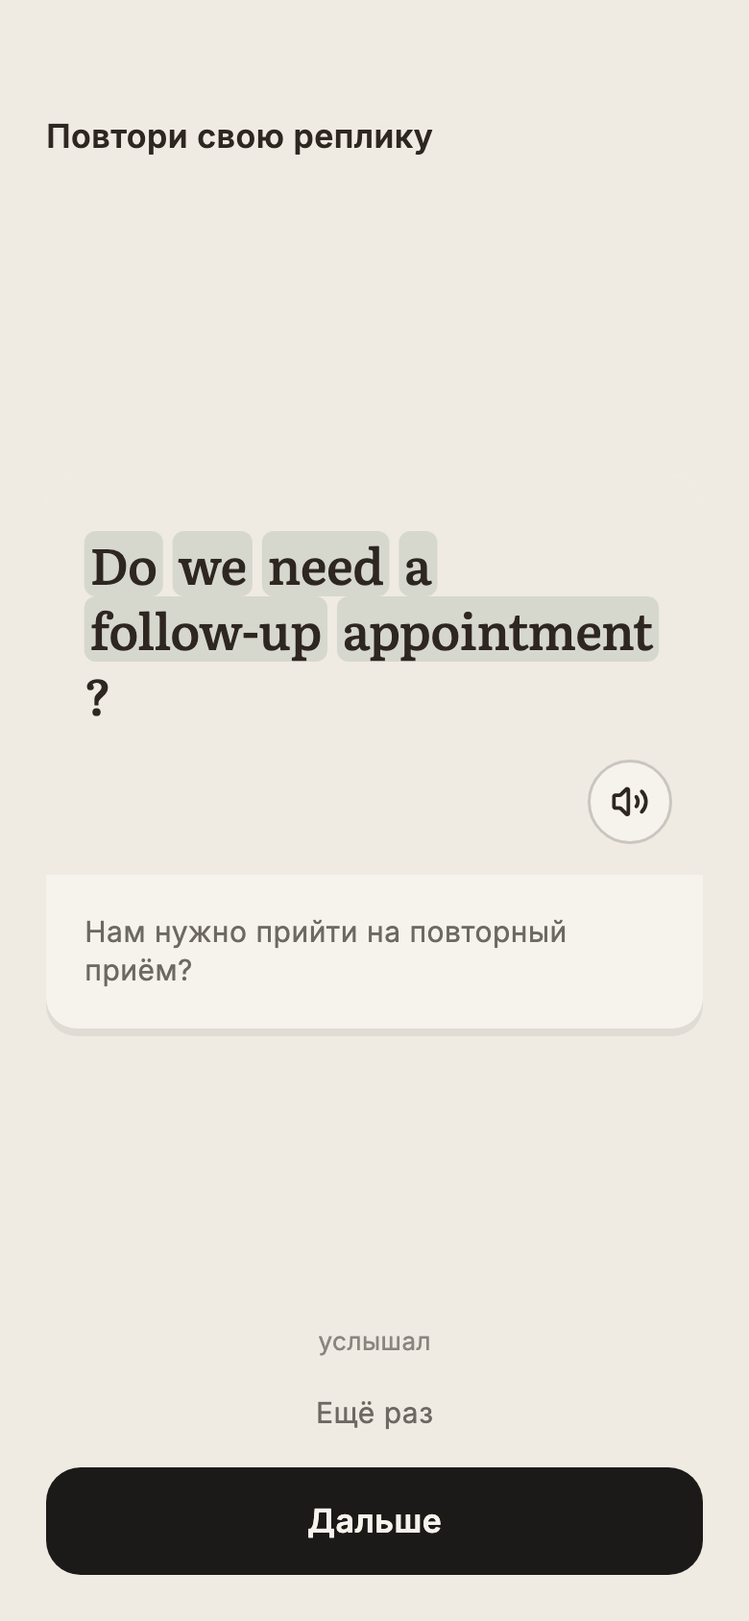
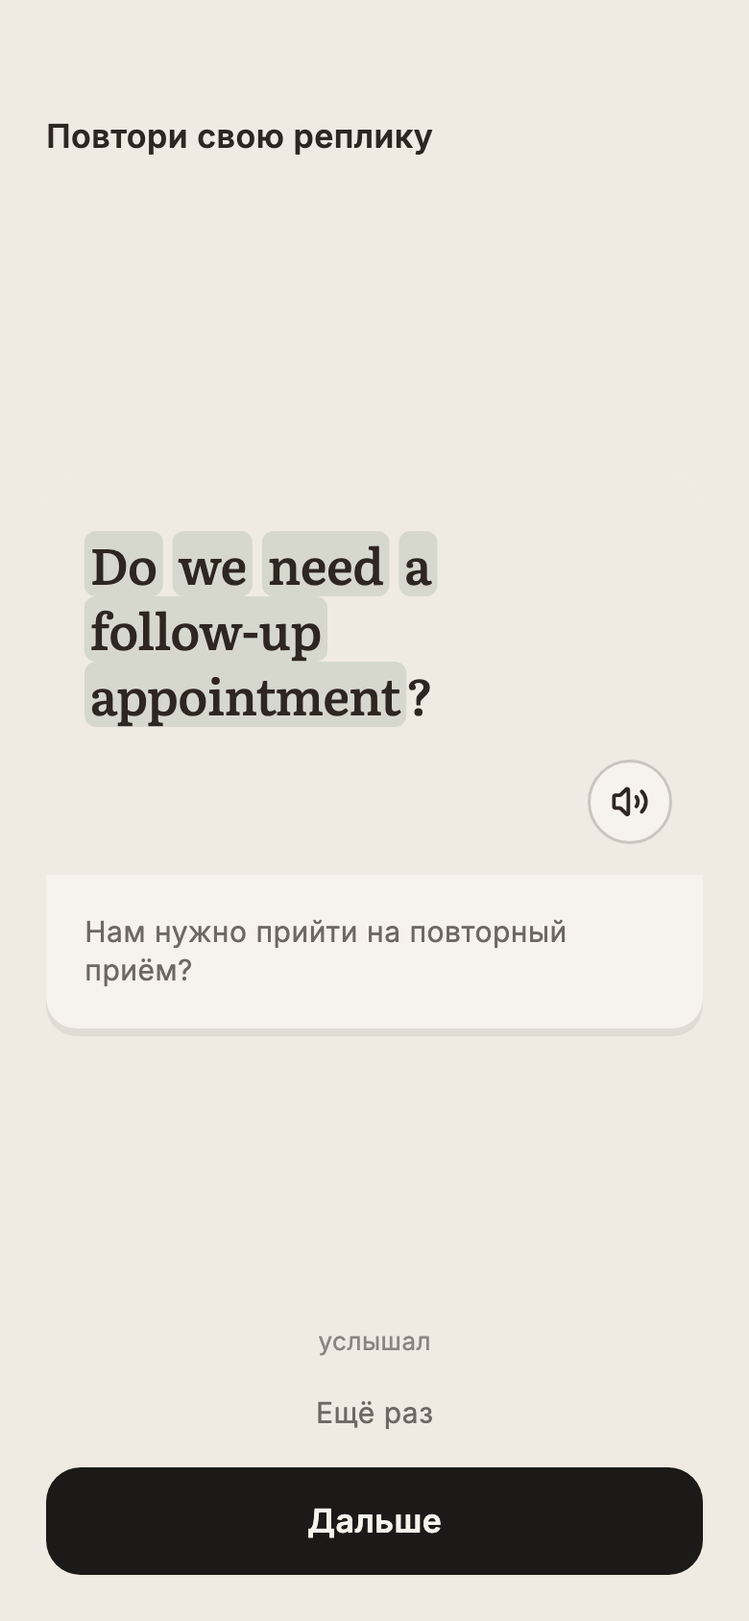
docs(plan): CLIENT-CONV-1c, третий заход — отчёт по шести правкам приёмки, 10 кадров
§1 «Третий заход» (код ecff0259): вход 37-5 на 844, число со словом не рвётся,
знак при плашке, чип «текст», ряды входа из state сервера, подсказка таба.
§3: изменённые кадры 01, 02, 08, 21, 24, 25 и новые 08b, 31–33.
§4 пп. 17–22: полоса фото уступает место (замер), перенос перед «·»,
«не начат» кадра 30-1, что вне .arb, точки 30-6 из перечитанного дня.
§5: решения архитектора — бэкфилл own_line и эхо роли на сервере,
«Выйти» — следующее окно; строки сервера с числами.
§7: ворота третьего захода — analyze чистый, 1756 passed; мутации 2/2.
Сборка (19) — после приёмки.

Changed region(s): [[0.1231, 0.3697, 0.8615, 0.4621]]

diff --git a/backend2/docs/research/client-conv-1c/README.md b/backend2/docs/research/client-conv-1c/README.md
@@ -15,9 +15,13 @@
 ветки, golden 37-1/37-2; `lib/` не менялся), отчёт — следующим коммитом. Что сделано — §1 «Второй заход», живая
 проверка — §2 «Второй заход», кадры — §3 (`live/14…35`), «ждёт фикстур» закрыто — §5, ворота — §7.
 
+**Третий заход (22.09, приёмка снимков обоих заходов — шесть правок):** код — `ecff0259`, отчёт — следующим коммитом.
+Что сделано — §1 «Третий заход», кадры — §3 «Третий заход» (только изменённые и новые: 01, 02, 08, 08b, 21, 24, 25,
+31–33), решения и расхождения — §4 пп. 17–22, что за сервером — §5, ворота — §7. Сборка (19) — после приёмки (§8).
+
 ---
 
-## §1. Что сделано — по пунктам наряда (код: `4841e49b`; второй заход — `cb17aeaf`)
+## §1. Что сделано — по пунктам наряда (код: `4841e49b`; второй заход — `cb17aeaf`; третий — `ecff0259`)
 
 ### §1 replayAccepted — клиент не строже сервера на повторе
 
@@ -158,6 +162,58 @@
 - **Golden:** + `37-2-review-in-progress`, `37-1-rehearsal-in-progress` — настоящий экран окна с фикстур ветки
   (`day_window_golden_test`); прежние снимки окна не изменились.
 - **Снимки харнесса** перегенерированы: 01, 02, 16–20, 26, 27, 30 — теперь с фикстур ветки (§3).
+
+### Третий заход (22.09): приёмка снимков — шесть правок (код: `ecff0259`)
+
+1. **Вход 37-5 на 390 × 844 (харнесс 01, 02; live/28, 35).** Вертикальные меры — по кадру: 20 под полосой сцены,
+   полоса фото 64, 20 под ней, 24 до брови «Скажи в разговоре», 14 под бровью, 24 до «Без подсказок», 8 воздуха над
+   доком. Окно фраз больше не 116: край меряется по самим фразам (`TextPainter`, ширина и масштаб шрифта экрана) и
+   всегда падает ВНУТРИ третьей фразы — её своя строка видна целиком, кромка режет её перевод на 10, затухание 28 лежит
+   на переводе и низе строки. (Кадровые 116 оставляли третьей фразе 6 точек из 45 — под затуханием, «две фразы и
+   пустота».) Список из одной-двух фраз стоит целиком, без затухания и без прокрутки. Место, которого экрану не хватает
+   на заголовок в две строки («Поговори с регистратором» — так называет разговор сервер) и на видимую третью фразу,
+   отдаёт полоса фото: 64 → до 24, меньше 24 — полосы нет. На 01 и 02 (заголовок в две строки) полосы нет, у заголовка в
+   одну строку («Поговори с врачом») она стоит. Не хватает и этого (крупный шрифт системы) — окно режет вторую фразу, а
+   экран прокручивается до переключателя. Раскладка — `_EntryFit` (свой `RenderBox`) в `talk_entry.dart`. Тесты
+   `talk_entry_test`: «на 844 всё над доком без прокрутки — место отдаёт полоса фото» (вход дня с заголовком в одну и
+   в две строки, репетиция), «крупный шрифт — экран прокручивается к переключателю», «две фразы и третья под кромкой,
+   край тает».
+2. **Число и слово не рвутся (live/24, 27, 34).** Во всех строках `.arb` с числом — неразрывный пробел (U+00A0) между
+   числом и словом и после «·» / «≈» перед числом: `app_ru.arb` — 140 строк, `app_en.arb` — 138, изменён только пробел
+   (сверено с `HEAD` по каждому ключу, метаданные не тронуты). Склейка двух строк «a · b» — `planDot`
+   (`plan_stage_text.dart`): вторая часть начинается с числа — `planWindowJoinNumber` («·» и неразрывный), иначе прежняя
+   `planWindowJoin` (после «·» перед словом перенос остаётся). Склейка частей в коде — `dotJoin` (`lib/ui/dot_join.dart`):
+   строка вечера на главной («14 из 14 слов · 52 карточки · 2 мин»), подпись дня маршрута, строка входа в план. Гард —
+   `test/l10n/nbsp_numbers_test.dart`: каждая строка обоих `.arb`, число-плейсхолдеры — по типу из шаблона и из
+   plural/select; склейки `planWindowJoin*` и `planDot`. Тесты, сверяющие текст с числом, пишут ожидание через `nb()`
+   (`test/support/nbsp.dart` — то же правило одной функцией), отрицательные проверки — тоже (иначе они проходили бы
+   впустую). Что вне `.arb` — §4 п. 20.
+3. **Знак препинания при плашке (харнесс 24, 25).** `SessionMarkedText` — все места, где реплика рисуется плашками
+   (35-3, 35-4, 34-3, 34-7; своя реплика в ленте разговора — подчёркиванием в тексте, её строка переносится как обычный
+   текст, и знак там уже держится при слове), — ставит закрывающий знак после отмеченного слова
+   («?», «.», «,», «!», «…», «»», «)») и открывающий перед ним («(», «„», «“», ««») в ту же вставку, что и плашку,
+   вплотную: строка переносится только до или после пары, знак один на строке не остаётся. Пара — свой `RenderBox`
+   (`_MarkUnit`), а не `Row`: знаки держат ширину, плашка берёт остаток строки и, если сама длиннее строки, переносится
+   внутри своей рамки; закрывающий знак стоит на её последней строке. (Вариант на `Row` переполнял пузырь 34-3 и
+   карточку 35-4 на тестовом шрифте — поймали существующие тесты `session_listen_cards_test` «taller than the screen»
+   и `session_speak_cards_test` 35-4.) Тест `session_marked_text_test`: «?» вплотную к плашке на ширинах 200…360 через 2,
+   «(» — 160…320 через 4, плашка длиннее строки — перенос внутри, знак у последней строки, пара не шире строки.
+4. **«Без подсказок» — чип «текст» (харнесс 08, 08b).** Закрытая плашка роли — пара «прослушать» 28 + чип «текст» в одном
+   ряду (как в 18): контур чернил 22 % 1,5, высота 28, скругление 14, касание 44. Тап открывает текст ЭТОЙ реплики — она
+   стоит открытой, как в режиме с подсказками; остальные закрыты (открытые — на экране разговора, по разговору и ходу).
+   Тесты `talk_canon_test`: пара на плашке 52, чип справа от кружка, тап открывает только ход 5, у хода 1 чип остаётся;
+   группа 37-7 «Без подсказок — тексты закрыты до «текст»».
+5. **Ряды входа этапа — state сервера, у всех этапов (кадр 32).** Ряд = `window.stages[].state`: `done` — «пройден»,
+   `current` — «идёт», `locked` — «впереди»; «не начат» на входе больше не пишется (поле `started` снято). Этап повтора с
+   итога дня — «ещё раз». По карточкам — только если окно дня не разобралось. Кадр 32 — вход «Вспомнить» репетиции
+   `day-rehearsal`: сервер `current` при 0 из 11 отвеченных — «идёт», как в окне. Те же ряды — точки 30-6: после этапа
+   сессия перечитывает день (`_refreshAfterStage`), и точки идут за ответом сервера (§4 п. 21). Харнесс снимков теперь
+   отдаёт state рядов так, как их выводит сервер из ответов (пройденный — `done`, первый непройденный — `current`), —
+   иначе он отвечал бы состоянием, с которым день открылся.
+6. **Подсказка таба «План» (кадр 33).** `planHintFirstStart` с подстановкой — «Начни с этапа «{stage}». Остальные
+   откроются по порядку»; имя — первый ряд плиты дня: этапы кабинета (`room.stages` без `absent`), пока кабинета нет —
+   первый этап маршрута дня; рядов нет — подсказки нет. «Слова» у дня-сцены, «Повторение» у повторения, «Вспомнить» у
+   репетиции. Кадр 33 — `plan_rehearsal`, сегодня день 2 (повторение), кабинет `day-review`.
 
 ---
 
@@ -346,7 +402,8 @@ flutter test test/features/plan/session/conv1c_shots_test.dart --dart-define=CON
 | 05-37-7b-listening | слушаю |
 | 06-37-7c-hint-chip | подсказка после 5 с |
 | 07-37-7d-after-rescue-sorry | после «Не понял» — свой пузырь «Sorry?» |
-| 08-37-7-no-hints | «Без подсказок» |
+| 08-37-7-no-hints | «Без подсказок»: закрытые плашки роли — «прослушать» 28 + чип «текст» (третий заход) |
+| 08b-37-7-no-hints-text-opened | «Без подсказок»: тап по «текст» открыл текст вопроса «How long has he had it?», первый вопрос закрыт (третий заход) |
 | 09-37-8-thinking | врач думает |
 | 10-37-8b-answer-strip-flash | ответ врача с волной, полоска «2 из 5» во вспышке |
 | 11-37-8d-phrase-sheet | лист фраз |
@@ -369,6 +426,14 @@ flutter test test/features/plan/session/conv1c_shots_test.dart --dart-define=CON
 | 28-37-1-passed-talk-again | 37-1 пройдена: «Повторить разговор» кнопкой |
 | 29-23-0a-passed-again-and-talk-again | 23-0a пройден: «Ещё раз» и ссылка «Повторить разговор» |
 | 30-23-0a-in-progress-row-minutes | 23-0a идёт: «≈ N мин» у рядов впереди |
+| 31-30-6-listen-two-digit-minutes | 30-6 с двузначными минутами — самый длинный заголовок: «Слушаю и отвечаю — / пройдено · 13 минут» (третий заход) |
+| 32-30-1-recall-entry-in-progress | вход «Вспомнить» репетиции: сервер `current` при 0 из 11 отвеченных — ряд «идёт» (третий заход) |
+| 33-21-2c-review-day-first-stage-hint | таб «План», сегодня день повторения: «Начни с этапа «Повторение». Остальные откроются по порядку» (третий заход) |
+
+**Третий заход** — изменились только эти кадры (остальные побайтно те же): 01 и 02 — вход 37-5 целиком над доком, третья
+фраза под кромкой, полосы фото нет (заголовок в две строки, §1 «Третий заход» п. 1); 08 и новый 08b — чип «текст»; 21 —
+заголовок 30-6 теперь переносится перед «·» («Говорю сам — пройдено / · 6 минут», §4 п. 18); 24 и 25 — «bends.» и
+«appointment?» вплотную к плашке; новые 31–33. Их zip — `client-conv-1c-shots-v3.zip` (в сообщении архитектору).
 
 Живые (`shots/live/`, симулятор, сервер без BACK-TAILS-2): 01 вход без поля `targets` · 02 лента открывается на ответе
 (кадры записи) · 03 ответ врача, «1 из 7» · 04 чип · 05 «Sorry?» · 06 «3 из 7» · 07 лист с галками · 08 конец «5 из 7» ·
@@ -390,6 +455,10 @@ flutter test test/features/plan/session/conv1c_shots_test.dart --dart-define=CON
 
 ## §4. Расхождения с канвой и нарядом — и решения
 
+Приёмка снимков 22.09: пп. 1 («около N минут» / «≈ N мин» по кадрам), 2 (карточки сцен без чисел), 3 (ряд «Разговор»),
+5 («Повторить разговор» ссылкой над «Ещё раз»), 6 (точки «врач думает») и 15 (числа 30-6 на телефоне по результатам
+сервера) — **приняты как есть**; п. 4 переделан третьим заходом (п. 17).
+
 1. **Минуты ряда.** Наряд: «≈ N мин» в ряду (23-0a, 37-1, 37-2). Кадры 37-1/37-2 (и контракт BACK-TAILS-2, который их
    цитирует) пишут словами: «около 4 минут», «идёт · около 6 минут». Сделано по кадрам для повторения и репетиции и
    «≈ N мин» у дня-сцены (у 23-0a кадра с минутами у запертых рядов нет; «≈» — стиль компактной шапки). Одна правка в
@@ -398,8 +467,9 @@ flutter test test/features/plan/session/conv1c_shots_test.dart --dart-define=CON
    не печатается (телефон не считает).
 3. **Имя ряда разговора в окне** — «Разговор» (кадры: «Разговор с врачом»). `talk_title_native` — повелительное
    «Поговори с врачом», ряд им не назвать; своего склонения у клиента нет.
-4. **Вход 37-5**: окно фраз 116 с кромкой, подрезающей нижнюю фразу (подпись кадра: «список прокручивается, нижняя
-   фраза подрезана кромкой»), и полоса фото 64 — по кадру.
+4. **Вход 37-5**: ~~окно фраз 116 с кромкой, подрезающей нижнюю фразу (подпись кадра: «список прокручивается, нижняя
+   фраза подрезана кромкой»), и полоса фото 64 — по кадру.~~ Третий заход: окно меряется по фразам, полоса фото уступает
+   место — п. 17.
 5. **«Повторить разговор» при двух действиях** (пройденный день-сцена с «Ещё раз»): кадра нет — латунная ссылка над
    кнопкой, «Ещё раз» остаётся кнопкой.
 6. **«Врач думает»** — точки оставлены: кадр 37-8 их не заменил (§12 «если заменено»).
@@ -427,6 +497,36 @@ flutter test test/features/plan/session/conv1c_shots_test.dart --dart-define=CON
 16. **`sources` у дня-сцены** (второй заход): сервер ветки отдаёт `sources` и у дня-сцены (одна сцена — сам день). Окно
     23-0a блока «Из каких сцен» не рисует: в кадре 23-0a его нет, блок — у повторения и репетиции (37-1, 37-2).
 
+Третий заход (приёмка снимков 22.09):
+
+17. **Вход 37-5 — окно по фразам, место отдаёт полоса фото.** Кадр держит окно 116 и полосу 64 при заголовке в одну
+    строку и своих, более коротких правилах; серверный заголовок в две строки («Поговори с регистратором») плюс видимая
+    третья фраза на 844 вместе с полосой не встают. Уступает полоса — элемент, который кадр уже сжимал со 170 до 64:
+    64 → 24, меньше — полосы нет (01, 02). Замер на 390 × 844: при заголовке в две строки под «Без подсказок» остаётся 19
+    точек сверх 8 воздуха, а полосе нужно 44 (24 и отступ 20 под ней); при заголовке в одну строку полоса стоит. Если
+    полоса важнее видимой строки третьей фразы: кромка в самой строке третьей фразы, а не в её переводе, освобождает ещё
+    23 — это полоса 22, тоньше нижней границы 24; чтобы полоса стояла и при двух строках заголовка, пришлось бы сжать и
+    отступы блоков (24 → 16 над «Скажи в разговоре» и над «Без подсказок» — ещё 16). Решать архитектору; правка —
+    константы `_TargetsCut.into`, `_RenderEntryFit.photoMin` и отступы там же.
+18. **Перенос перед «·».** Неразрывный пробел после «·» держит точку при числе, поэтому заголовок, которому не хватает
+    строки, переносится перед «·»: «Говорю сам — пройдено / · 6 минут» (21; раньше было «пройдено · / 6 минут»). Если нужен
+    перенос перед словом состояния («Говорю сам — / пройдено · 6 минут», как у 31) — неразрывный пробел и перед «·» в
+    `planWindowJoinNumber` (одна строка `.arb` на язык); тогда «пройдено · 6 минут» не рвётся нигде. Решать архитектору.
+19. **«не начат» на входе этапа** — кадр 30-1 у текущего ряда до первой карточки пишет «не начат»; по правке 5 ряд
+    говорит state сервера — «идёт», как окно дня.
+20. **Вне `.arb` число со словом не склеено:** даты `DateFormat` («19 сентября · пройден» в маршруте) и строки сервера —
+    `until_phrase` («До приёма · 3 дня»), `highlights` («Сказал сам 6 реплик из 8»), `route_summary`: клиент печатает их
+    как пришли (§5). Числа внутри английских реплик — часть реплики, не интерфейса.
+21. **Точки 30-6 и ряды следующего входа — из перечитанного дня.** После последней карточки этапа сессия перечитывает
+    день (один GET); пока ответ в пути, точки показывают прошлый: только что пройденный этап — латунный «текущий»,
+    следующий — «впереди»; с ответом — как в кадре 30-6 (пройденные — шалфей, следующий — латунь). Не удалось
+    перечитать — прошлое состояние остаётся до следующего входа. Раньше точки считал телефон по карточкам и они менялись
+    сразу; правка 5 сознательно отдала это серверу.
+22. **Склейка «·»:** `planWindowJoin` осталась для второй части со словом (после «·» перенос возможен), новая
+    `planWindowJoinNumber` — для числа; выбор между ними — `planDot`, в коде — `dotJoin`. Склейки в коде, где вторая часть
+    начинается не с числа («Ещё 1 слово · карточка 2 из 3», «16 слов · A2», трудные слова дня), оставлены обычным
+    `join(' · ')`.
+
 ---
 
 ## §5. Чего сервер не даёт / что ждёт фикстур
@@ -442,13 +542,20 @@ flutter test test/features/plan/session/conv1c_shots_test.dart --dart-define=CON
   нет ни у одной (сданы до CONV-2). В двух активных планах они уже отвечены на закрытых днях; 4 неотвеченные — только в
   удалённых планах. Клиент читает эхо только с `own_line` (§2в), карточку без него не рисует — сегодня это не держит ни
   один активный день, но «Ещё раз» «Говорю сам» на тех закрытых днях пройдёт без эха. Целое решение — сервер дописывает
-  `own_line` старым карточкам (бэкфилл), не клиент: подставлять `partner_line` наряд запрещает. Решать архитектору.
+  `own_line` старым карточкам (бэкфилл), не клиент: подставлять `partner_line` наряд запрещает. **Решение архитектора
+  22.09: решает сервер (бэкфилл `own_line`)**; клиент не меняется.
 - **Своих реплик с файлом голоса на e2e нет** (озвучены только реплики роли плана gen2a): эхо и пересказы там читает
   системный голос. Живая проверка «файл своей реплики звучит в эхо» требует озвучить реплики ученика — это покупка у
   вендора, только по команде (§2 «Второй заход»).
 - **«Эхо роли» с более раннего хода** (сервер ветки): роль повторила вопросом фразу, сказанную учеником двумя ходами
   раньше (повтор, ход 5 — §2 «Второй заход»); проверка эха читает только последний ход. Клиенту делать нечего (handoff
-  §9 п. 10), решать серверу.
+  §9 п. 10), решать серверу. **Решение архитектора 22.09: сервер.**
+- **«Выйти» в профиле оставляет чёрный экран** (приложение живо; §2, оба захода) — **решение архитектора 22.09: следующее
+  окно**, в этом наряде не трогается.
+- **Строки сервера с числами** приходят с обычным пробелом: `until_phrase` («До приёма · 3 дня»), `highlights` («Сказал
+  сам 6 реплик из 8»), `route_summary`. Клиент печатает серверный текст как пришёл, поэтому правило «число и слово не
+  рвутся» (третий заход) на них не распространяется; целое решение — неразрывный пробел в этих строках на сервере (§4
+  п. 20).
 - **Карточки, сданные до ветки,** ветка отдаёт с сохранённым payload: у строк «Вспомнить» лишние поля (`filler_index`,
   `frame_ref`, `key`, `step`). Контракт «ровно `{ref, text_target, text_native, audio}`» верен для свежей сдачи; клиент от
   точности не зависит.
@@ -497,6 +604,24 @@ flutter test test/features/plan/session/conv1c_shots_test.dart --dart-define=CON
   0 failed, 0 skipped (+5: разбор и лента документов ветки в `talk_canon_test`, сцена без своего дня в
   `day_window_system_test`, два golden окна 37-1/37-2). По ходу — только целевой харнесс снимков conv1c (30/30).
   Коммит `cb17aeaf` прошёл хук ворот (`flutter analyze`).
+- **Третий заход** — ворота в конце. `flutter analyze`: первый прогон — 1 ошибка (`talk_shots_test.dart` ещё передавал
+  снятое поле `started` в `StageRow`) и 5 замечаний (`prefer_initializing_formals` в двух новых `RenderBox`,
+  `unnecessary_brace_in_string_interps` в гарде) — исправлены. `flutter test`: первый прогон — 1755 passed, **1 failed**
+  (`plan_glossary_test` «каждый ключ читается из кода»: `planWindowJoin` / `planWindowJoinNumber` вызывались внутри
+  расширения `planDot` без получателя, а гард ищет `.ключ`) — исправлено. Код изменился, поэтому обе проверки повторены
+  целиком: `flutter analyze` — **No issues found**, `flutter test` — **1756 passed**, 0 failed, 0 skipped (+14 к второму заходу: тесты
+  правок — гард неразрывного пробела, плашка со знаком, вход 37-5 на 844 и с крупным шрифтом — и кадры 08b, 31–33).
+  Коммит `ecff0259` прошёл хук ворот (`flutter analyze`).
+- По ходу — только целевые прогоны: 98 файлов с числами в ожиданиях (до правки ожиданий — 84 падения: ожидания без
+  неразрывного пробела, склейка «·» перед словом, переполнение плашки со знаком в 34-3 / 35-4 и два каскадных
+  `MissingPluginException` за упавшими соседями); повтор по 34 файлам (упавшие и тесты правок) — одна проверка golden
+  23-0c (`textContaining` с хвостовым обычным пробелом) исправлена, остальное зелёное; тесты правок (`talk_entry_test`,
+  `session_marked_text_test`, `talk_canon_test`, `nbsp_numbers_test`, `session_replay_test`); харнесс снимков conv1c —
+  34/34.
+- Мутации — **2/2 пойманы** и откачены: обычный пробел вместо неразрывного в `planMinutesCount` — гард
+  `nbsp_numbers_test`; плашка со знаком без ограничения ширины (как было с `Row`) — `session_marked_text_test` «плашка
+  длиннее строки» (высота 37 вместо > 51). Свой `RenderBox` переполнения не сообщает, поэтому этот тест — единственный,
+  кто ловит второе: тесты 34-3 / 35-4 ловили только переполнение `Row`.
 
 ---
 
@@ -504,3 +629,4 @@ flutter test test/features/plan/session/conv1c_shots_test.dart --dart-define=CON
 
 1.0.0 (19) — после приёмки снимков; версия — в подвале входа этапа («сборка 1.0.0 (N)», на живых кадрах пока (18)).
 Второй заход сборку не собирал: ждёт приёмки снимков обоих заходов (`shots/`, `shots/live/01…35`).
+Третий заход — тоже нет: сборка (19) — после приёмки его кадров (§3 «Третий заход»).
